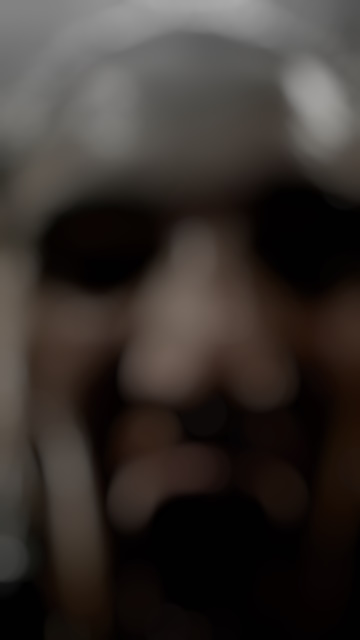
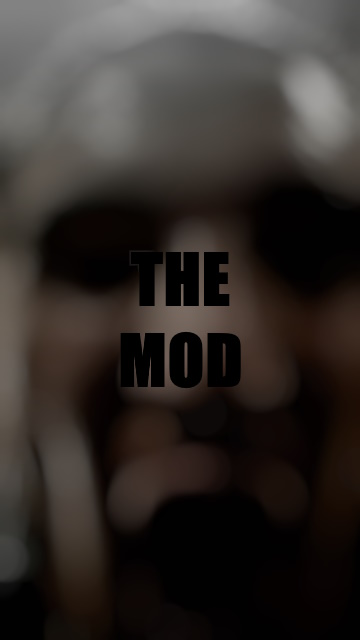
added section for mod

Changed region(s): [[0.3361, 0.375, 0.6722, 0.625]]

diff --git a/mod.css b/mod.css
@@ -1,0 +1,36 @@
+body {
+    background-image: url("pictures/back_mod.jpg");
+    background-repeat: no-repeat;
+    background-attachment: fixed;
+    background-size: 100% 100%;
+    background-color: #510000;
+    text-shadow: 1px 1px 2px black;
+  }
+
+  p, h1, h2, h3 {color:white;}
+
+  .backbutton {
+    font-family: 'Varela Round', sans-serif;
+    font-size: 32px;
+    color: palegreen;
+    font-weight: bolder;
+    -webkit-text-stroke-width: 1px;
+    -webkit-text-stroke-color: palegreen;
+  }
+
+  .backbutton:hover {
+    color:palegreen;
+    -webkit-text-stroke-width: 1px;
+    -webkit-text-stroke-color: forestgreen;
+  }
+
+  .mainheader {
+    text-align: center;
+    color:white;
+    font-size: 100px;
+    -webkit-text-stroke-width: 1px;
+    -webkit-text-stroke-color: black;
+    text-transform: uppercase;
+    font-weight: bolder;
+    font-family: Impact, sans-serif;
+  }

diff --git a/mod.html b/mod.html
@@ -1,0 +1,24 @@
+<!DOCTYPE html>
+<html>
+    <head>
+        <meta charset="utf-8" />
+        <meta name="viewport" content="width=device-width, initial-scale=1.0" />
+        <title>TL - Mod</title>
+        <link rel="icon" href="pictures/mesmall.png" type="image/png">
+        <link rel="stylesheet"
+          href="https://dhbhdrzi4tiry.cloudfront.net/cdn/sites/foundation.min.css">
+        <link rel="stylesheet" href="mod.css">
+        <link href="https://fonts.googleapis.com/css?family=Montserrat" rel="stylesheet">
+      </head>
+    <body>
+
+    <a href="index.html" class="backbutton">Go to Home</a>
+    <header class="mainheader">the mod</header>
+
+    <hr>
+
+    <h1>Under construction</h1>
+    <p>Like I said. Read.</p>
+
+    </body>
+</html>

diff --git a/index.html b/index.html
@@ -291,8 +291,9 @@
           src="pictures/sec03.jpg" alt="Temporary Picture">
       </div>
       <div class="column">
-        <img class="thumbnail" id="deleteme"
-          src="pictures/sec04.jpg" alt="Temporary Picture">
+        <a href="mod.html"> 
+        <img class="thumbnail" id="linx"
+          src="pictures/sec04.jpg" alt="Link to info about my Hearts of Iron IV mod">
       </div>
       <div class="column">
         <a href="bean.html">
